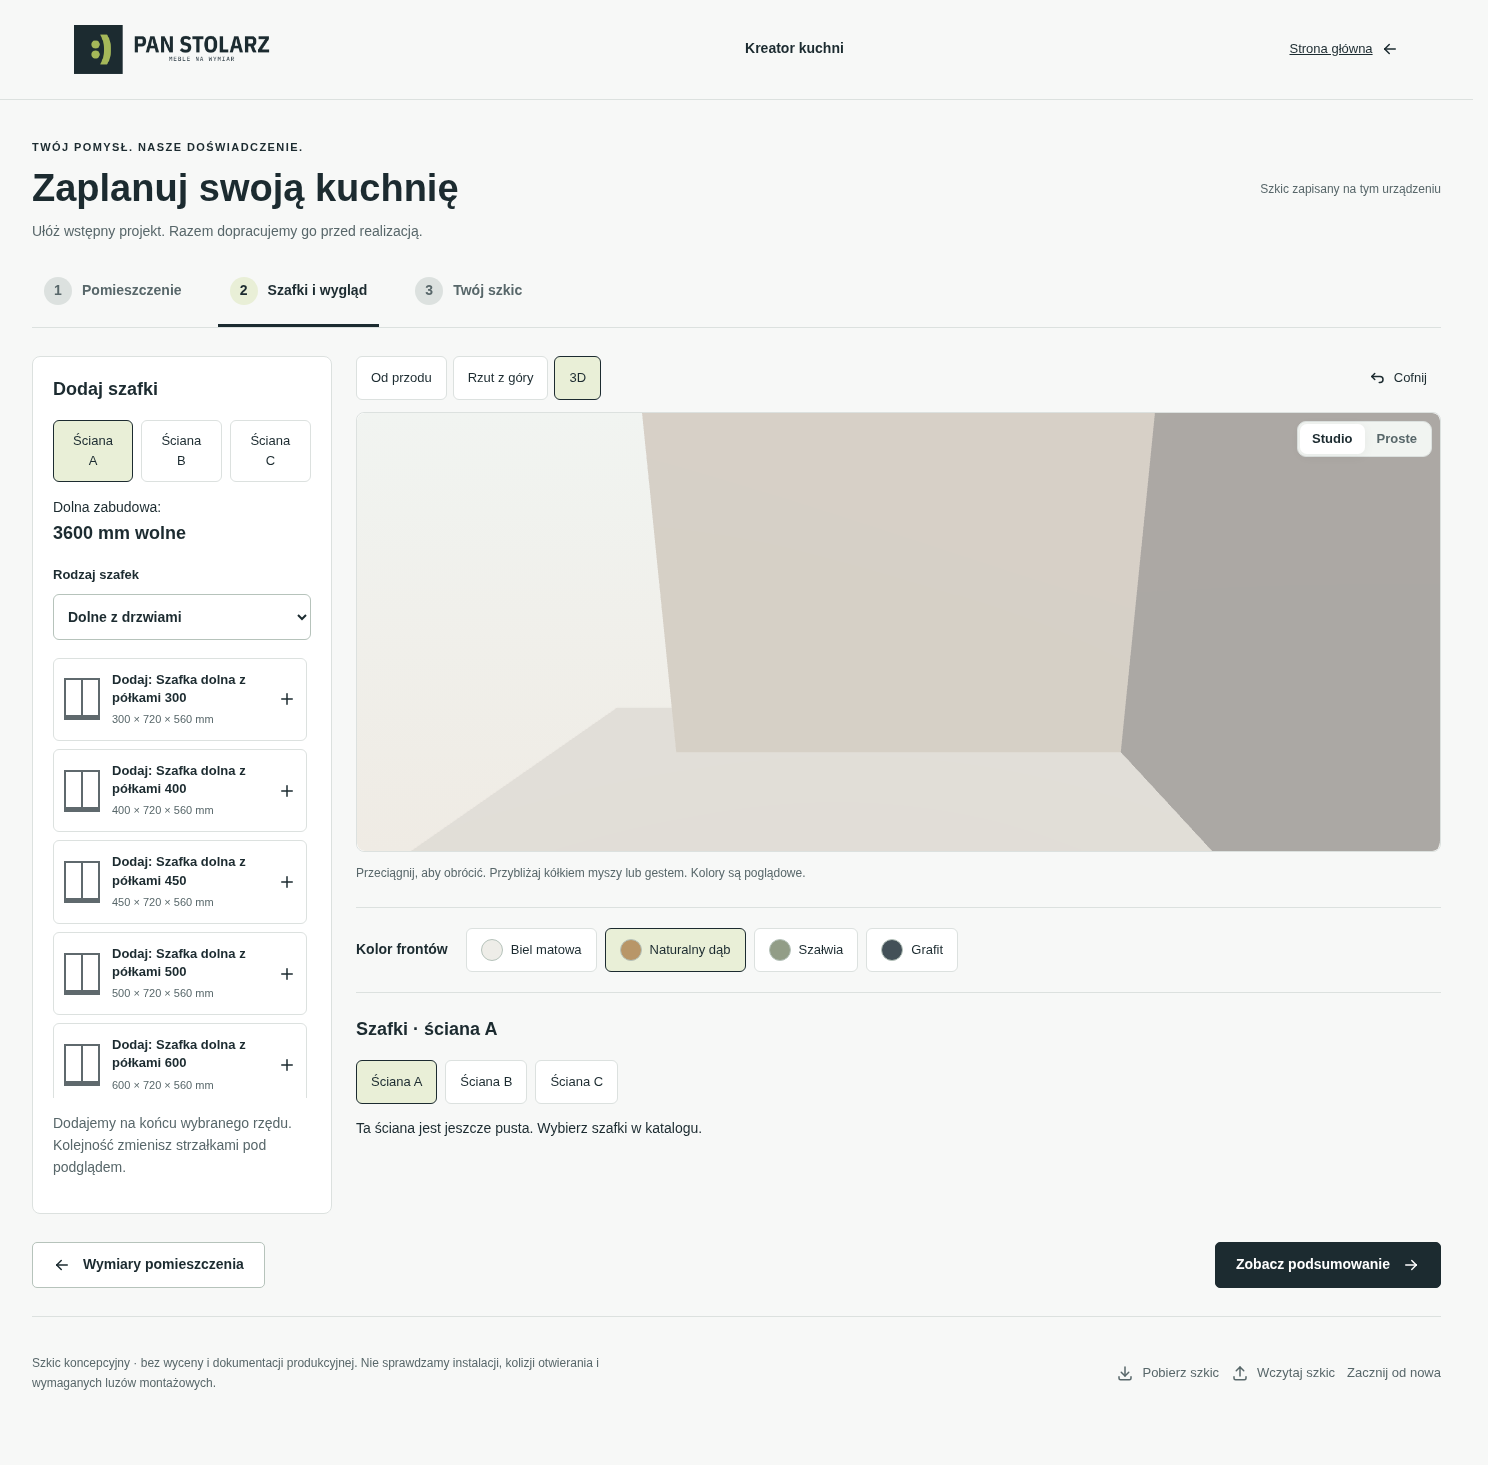
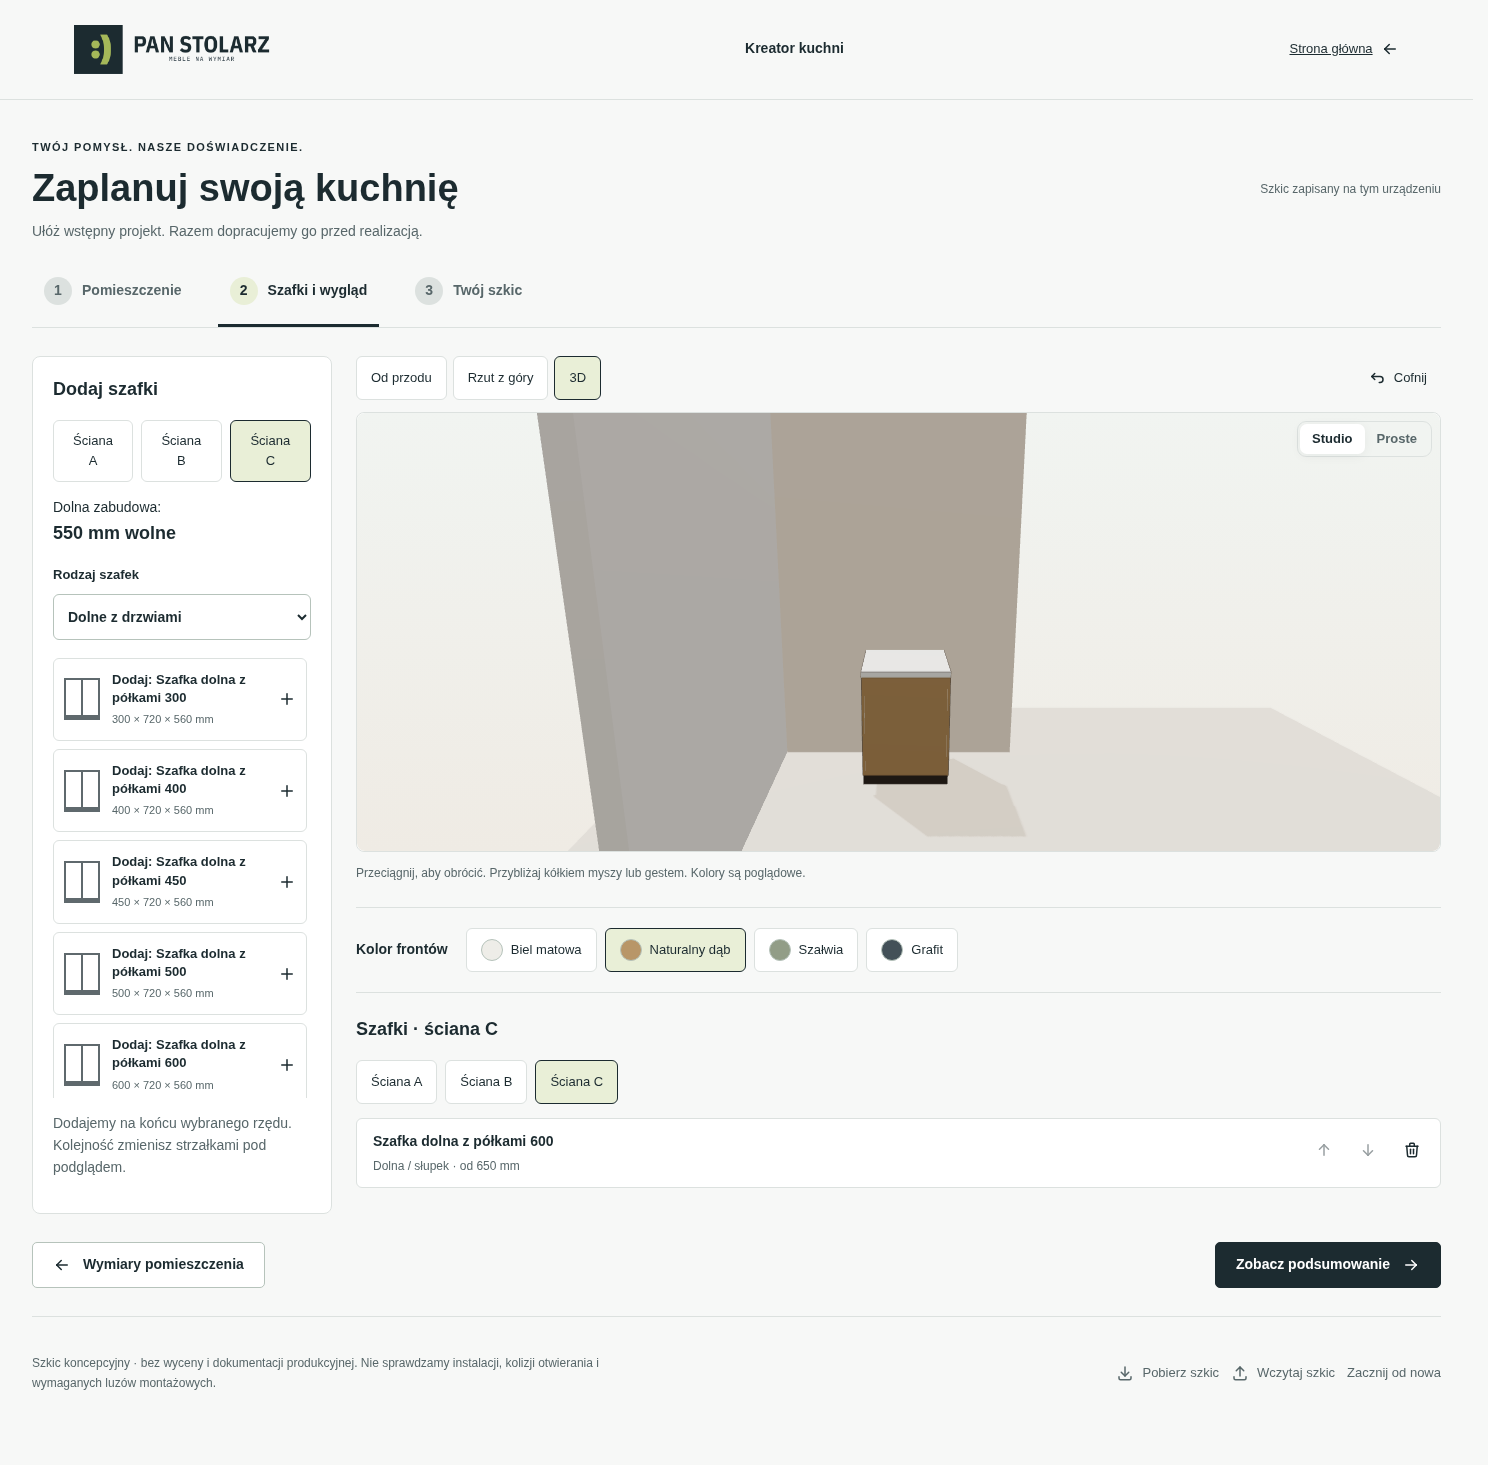
Focus kitchen 3D preview on the selected wall

diff --git a/web/src/v2/planner/KitchenPlanner.tsx b/web/src/v2/planner/KitchenPlanner.tsx
@@ -79,7 +79,9 @@ export function KitchenPlanner() {
   const [draft, setDraft] = useState<Draft>(initial.draft);
   const [history, setHistory] = useState<Draft[]>([]);
   const [step, setStep] = useState(0);
-  const [wall, setWall] = useState<"a" | "b" | "c">("a");
+  const [wall, setWall] = useState<"a" | "b" | "c">(
+    initial.draft.items[0]?.wall ?? "a",
+  );
   const [view, setView] = useState<"front" | "plan" | "3d">("front");
   const [selected, setSelected] = useState<string | null>(null);
   const [group, setGroup] = useState("base");
@@ -696,6 +698,7 @@ export function KitchenPlanner() {
                         fallback={<p role="status">Wczytywanie podglądu 3D…</p>}
                       >
                         <View3D
+                          key={wall}
                           fitContainer
                           analiza={analysis}
                           pomieszczenieId="kitchen"

diff --git a/QA-REPORT.md b/QA-REPORT.md
@@ -39,3 +39,5 @@ Wynik: sprawdzona wersja robocza do przeglądu; **bez deklaracji gotowości prod
 ## Układ U
 
 Rozszerzenie sprawdzone: build/typecheck, 5 testów modelu (w tym geometria U, przepełnienie C i zgodność dawnych szkiców), 3 scenariusze Chromium (U: wybór/wymiar C, kontrola miejsca, blokada utraty szafek przy zmianie układu, odtworzenie, rzut/3D, 390 px, opis w formularzu; regresja L i import starszego formatu). Wszystkie zaliczone. Audyt premium: zero ustaleń. Zrzut: `qa/planner-u.png`.
+
+Po oględzinach U dopasowano start kamery do pierwszej użytej ściany szkicu i zmianę ściany do nowego ujęcia. Ponowny scenariusz U oraz kontrola typów frontendu zaliczone.
